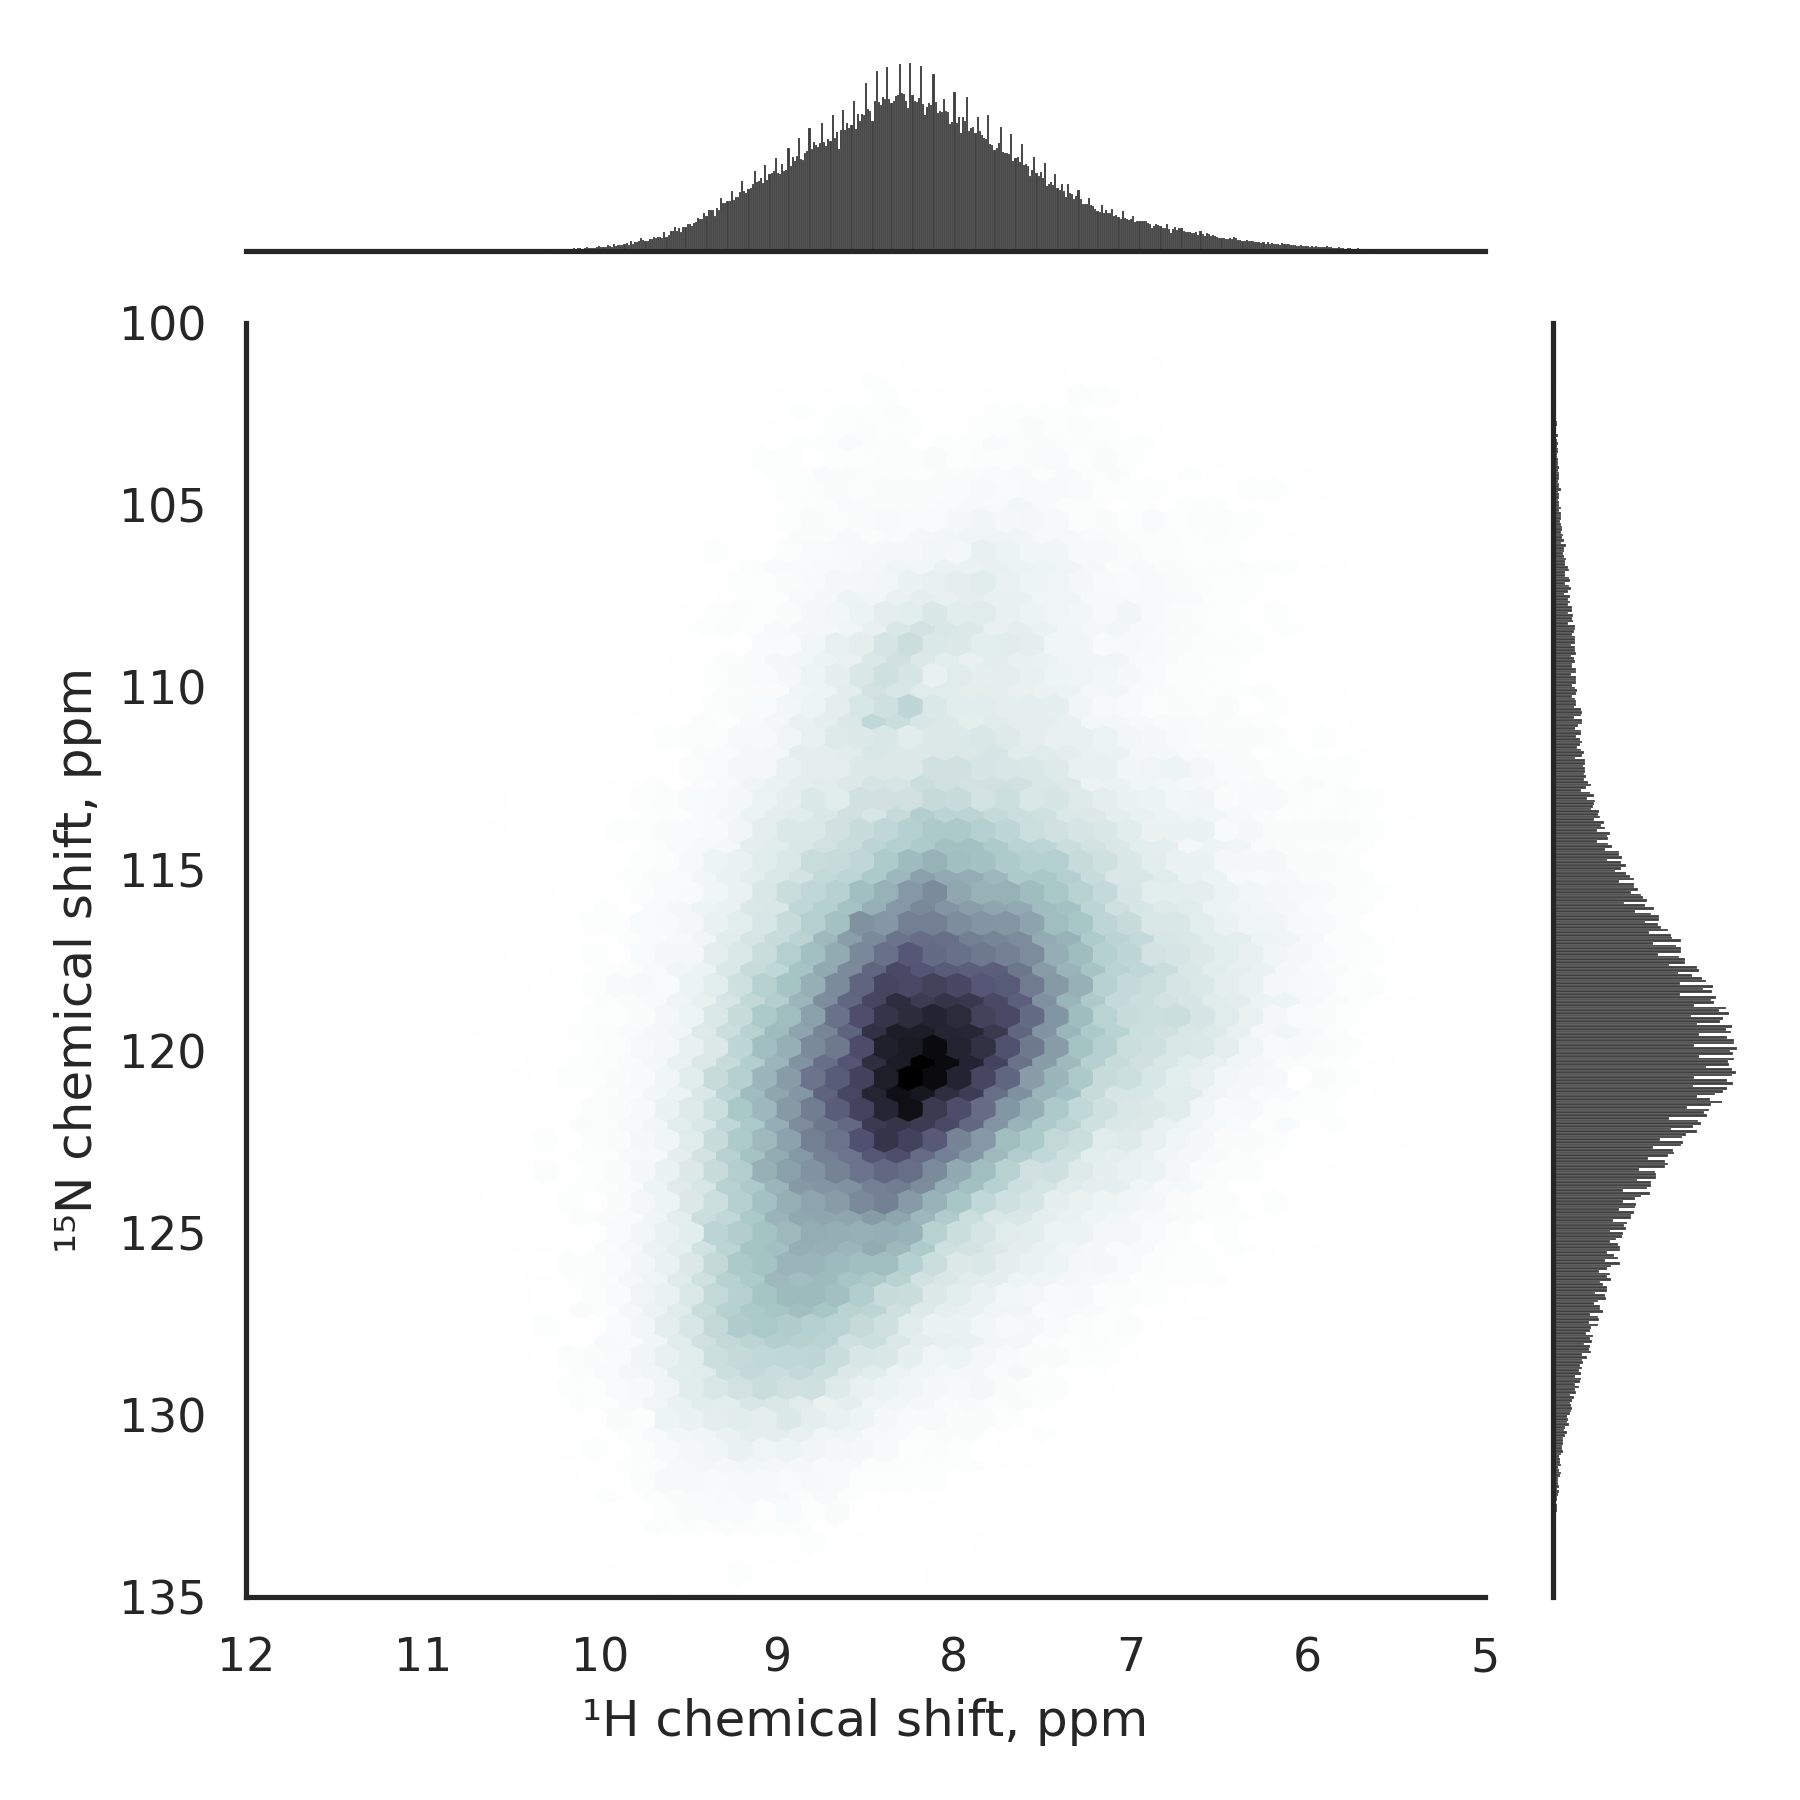
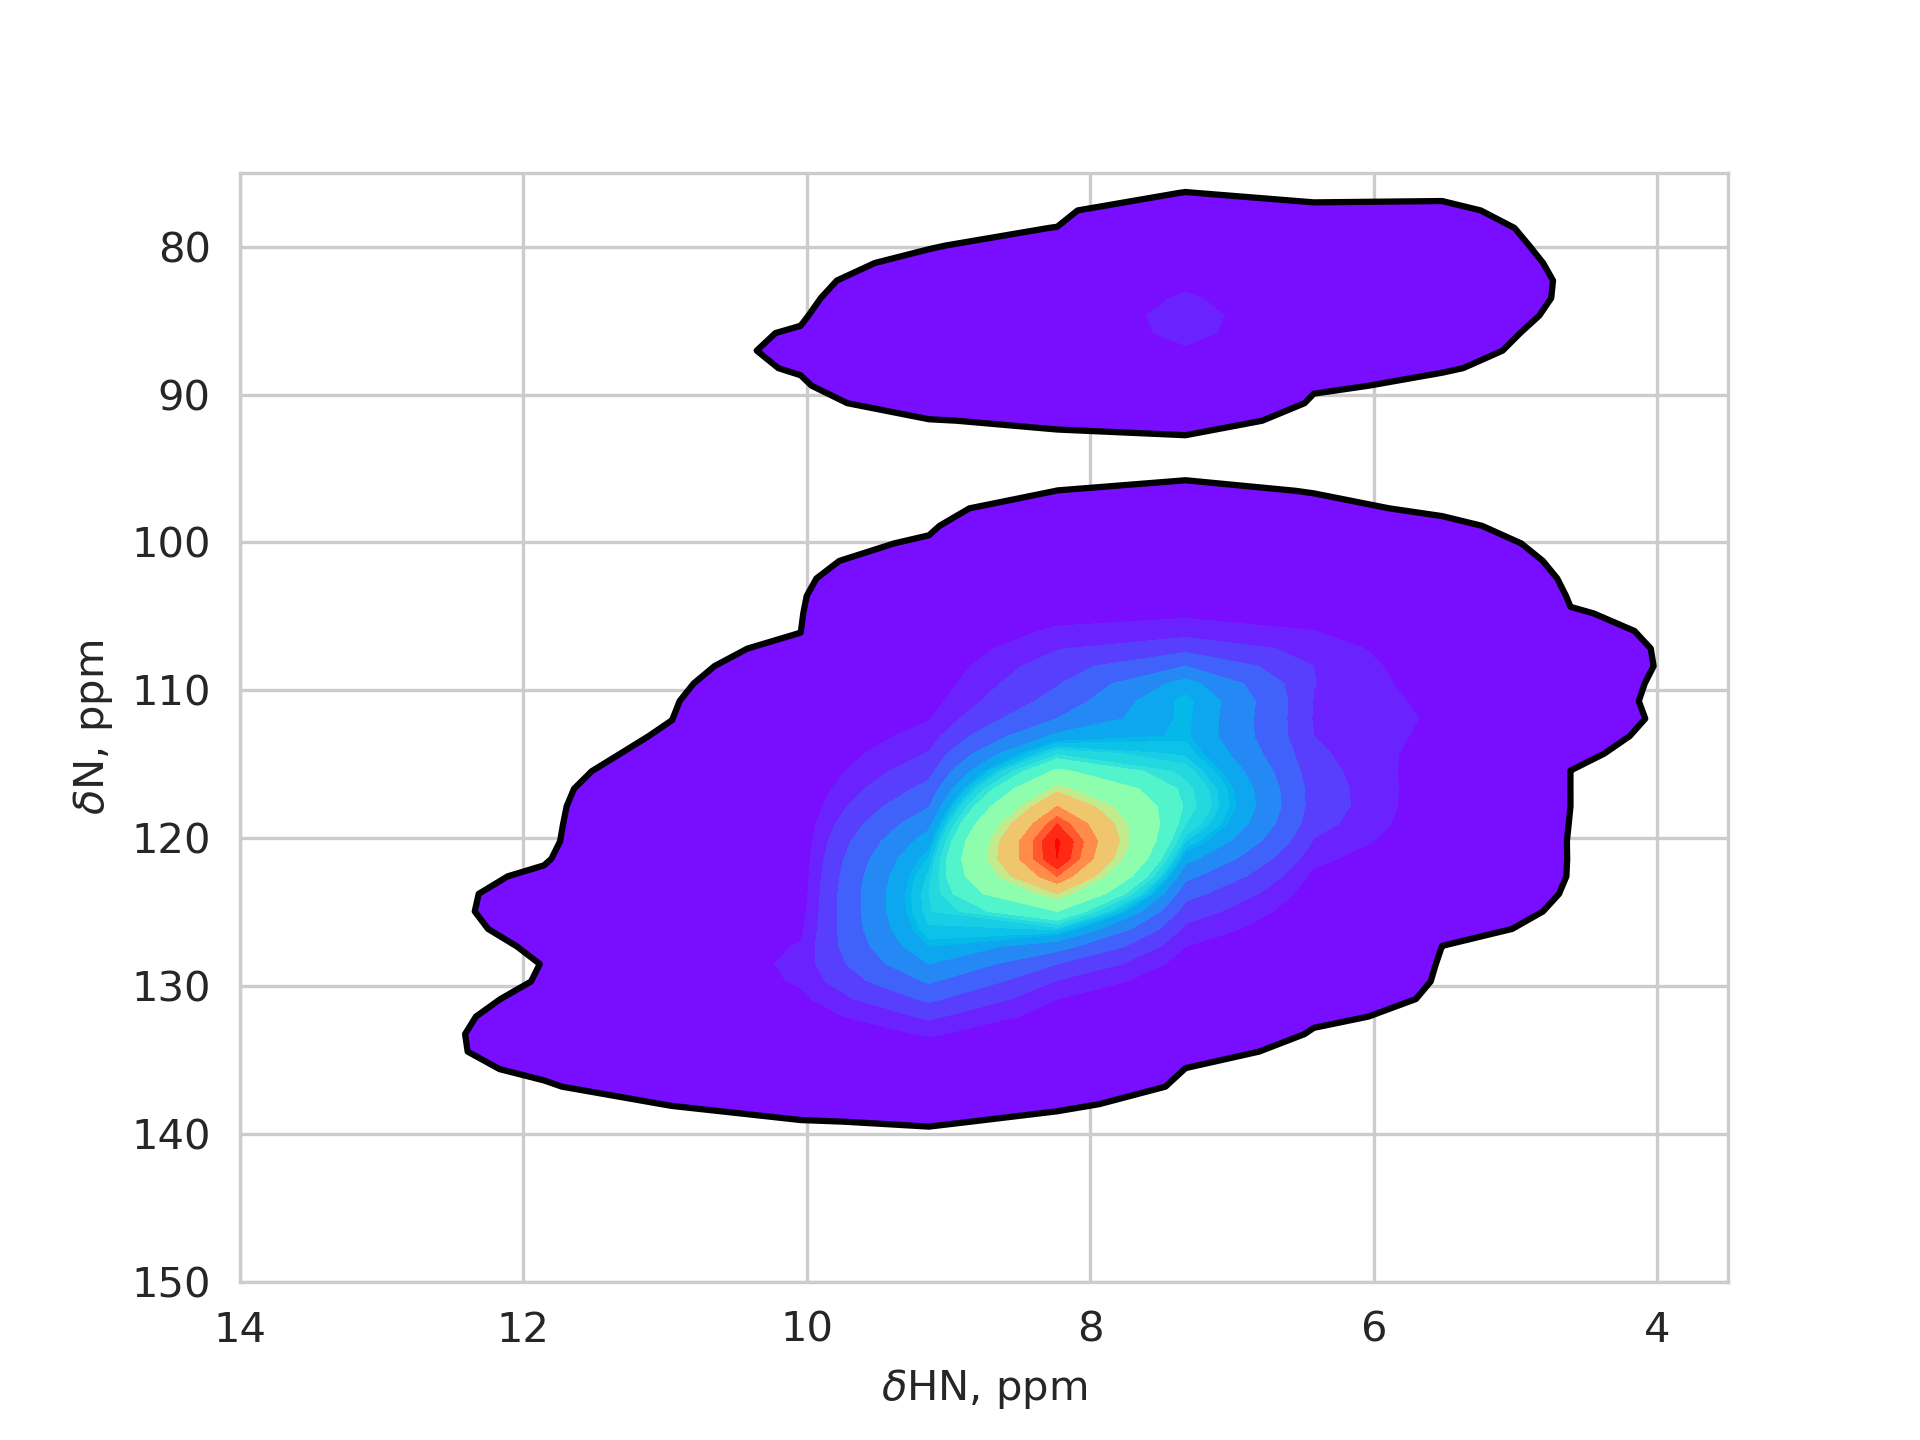
Replaced the figures

diff --git a/SPARKY_and_POKY/Unfold_Peaks.md b/SPARKY_and_POKY/Unfold_Peaks.md
@@ -50,8 +50,10 @@ Lower-dimensional experiments can be recorded
 
 If the experimental evidence is not available for any reason, one has to make assumptions on which frequencies are to be observed in the experiment. 
 
-The heatmaps below show the chemical shift distribution based on a dataset of nearly 4M peaks. 
-If any peaks appear outside the shaded areas, they are likely to be aliased.   
+The heatmaps below show the chemical shift distribution based on a dataset of nearly 4M peaks. The colors inside 
+the black contour show the probability density  > 0.001. The color gradient is plotted with logarithmic scaling. 
+
+If any peaks appear outside the shaded areas, they are aliased.   
 
 | Hn / N plane                                                 | Hc/C plane                                                     |
 |--------------------------------------------------------------|----------------------------------------------------------------|
